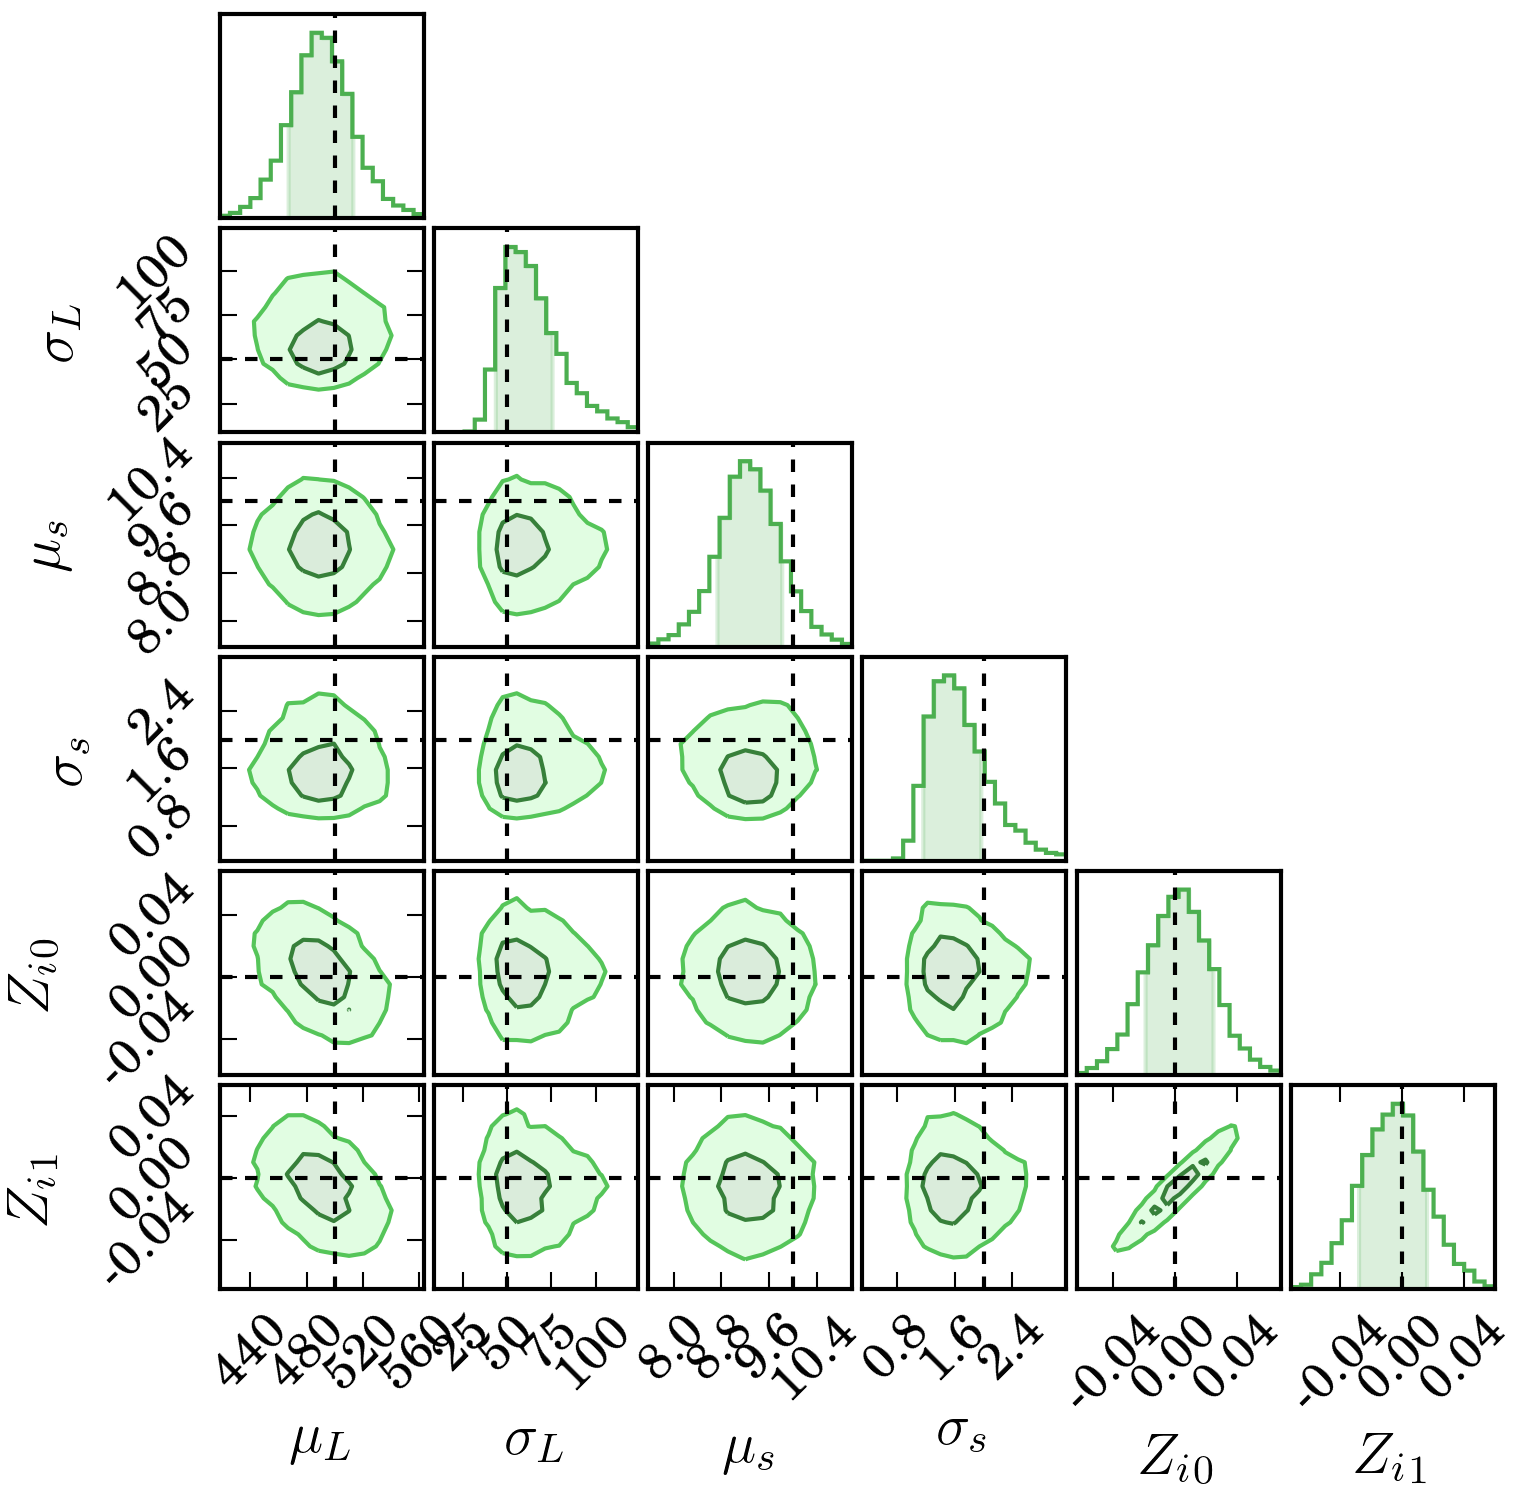
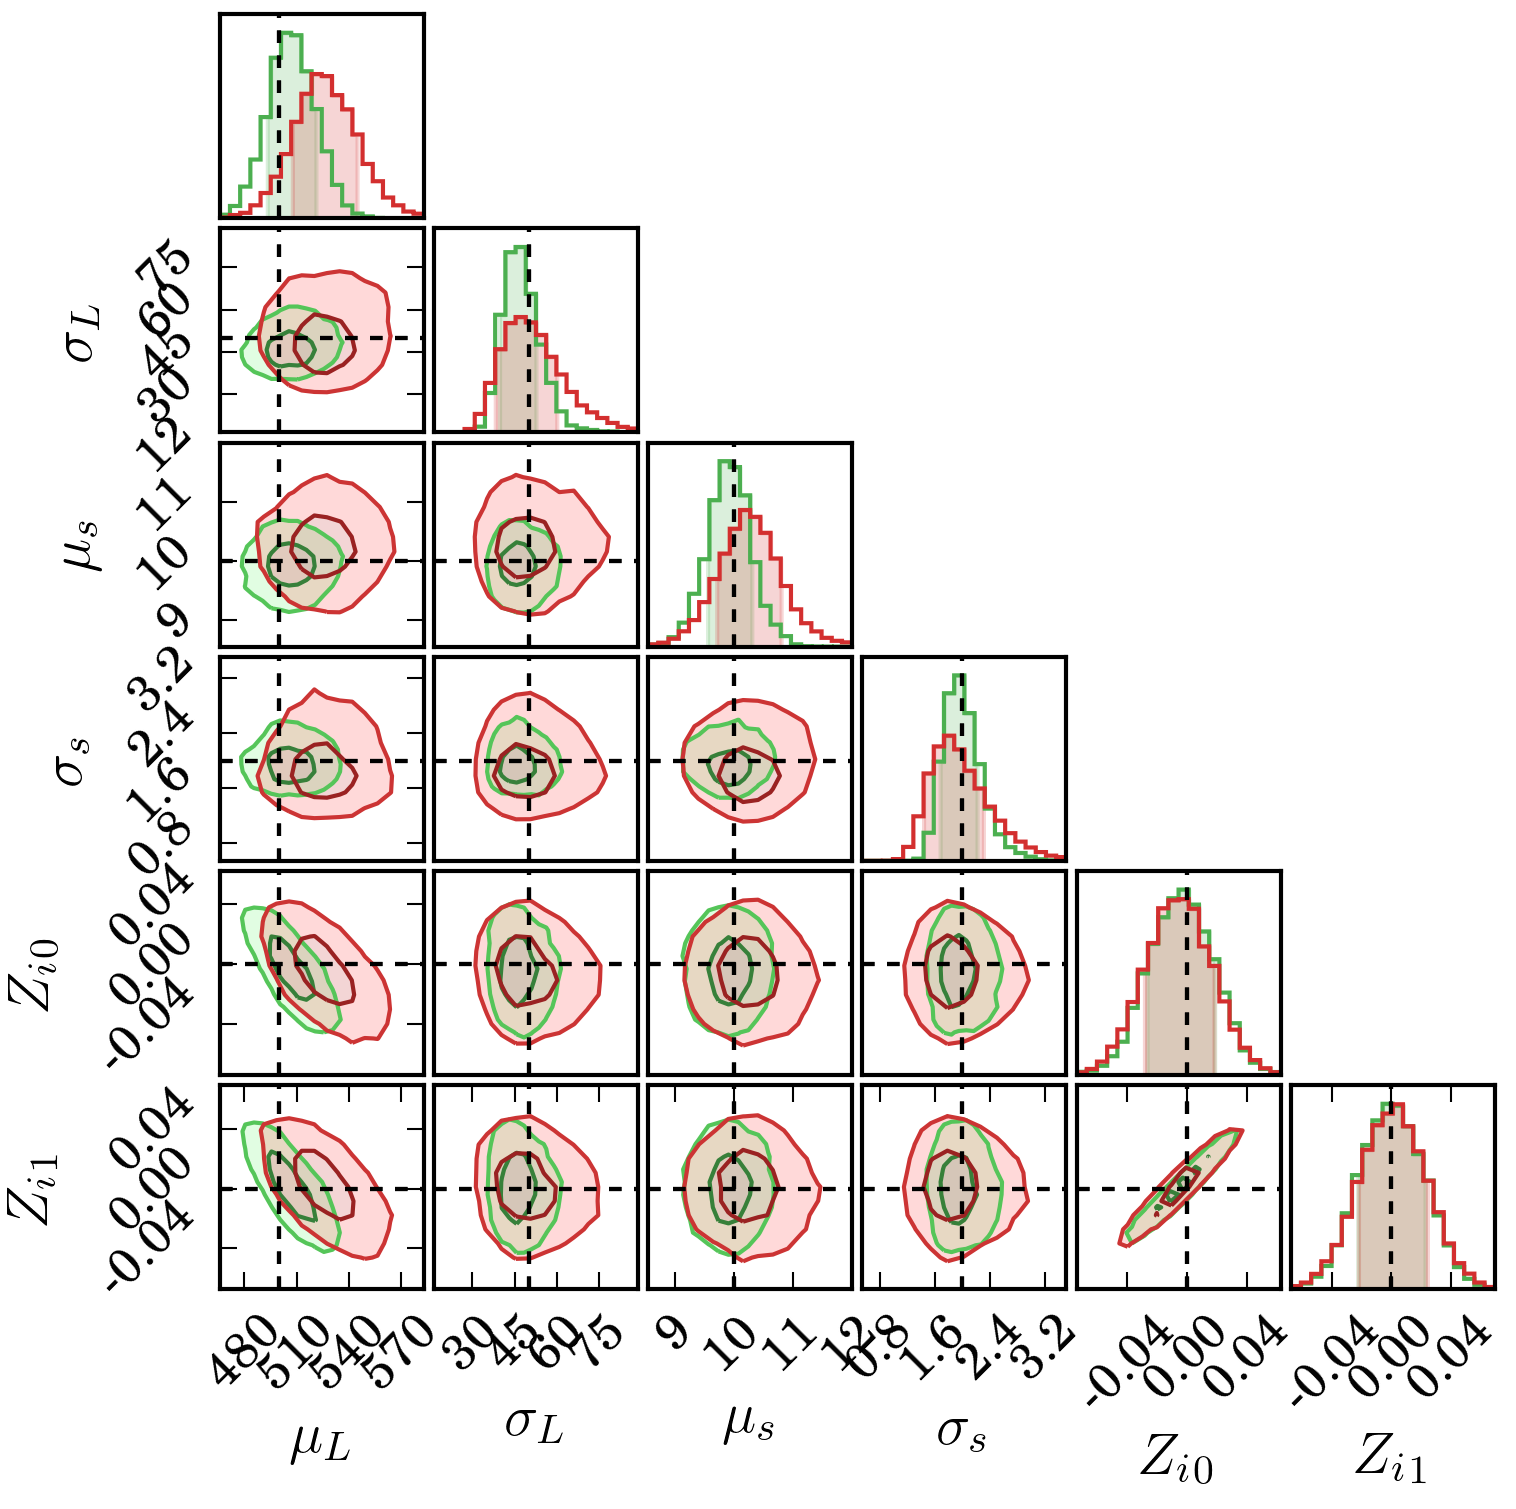
Updates and tears

Changed region(s): [[0.031, 0.0, 0.9921, 0.9967], [0.31, 0.9344, 0.372, 0.9655], [0.6201, 0.9344, 0.6511, 0.9655]]

diff --git a/dessn/proofs/efficiency_8/efficiency_model_8.py b/dessn/proofs/efficiency_8/efficiency_model_8.py
@@ -56,7 +56,7 @@ class PeakLuminosity(ParameterLatent):
 
 class PeakTime(ParameterLatent):
     def __init__(self, n, ts):
-        super().__init__("t", r"$t_0$", n, group="Peak Time")
+        super().__init__("t", r"$t0$", n, group="Peak Time")
         self.ts = ts
 
     def get_suggestion_requirements(self):
@@ -221,13 +221,12 @@ class ToFlux(EdgeTransformation):
 
 class ToLuminosity(EdgeTransformation):
     def __init__(self):
-        # super().__init__("lum", ["L", "t", "t_o", "s"])
-        super().__init__("lum", ["L", "t_o", "s"])
+        super().__init__("lum", ["L", "t", "t_o", "s"])
 
     def get_transformation(self, data):
         l0 = data["L"][:, None]
         s = data["s"][:, None]
-        diff = 100 - data["t_o"]
+        diff = data["t"][:, None] - data["t_o"]
         vals = np.exp(-(diff * diff) / (2 * s * s))
         return {"lum": l0 * vals}
 
@@ -280,7 +279,7 @@ class EfficiencyModelUncorrected(Model):
 
         # Latent Parameters
         self.add(PeakLuminosity(observed_redshift.size, observed_zero_points, observed_redshift, actual_lum))
-        # self.add(PeakTime(observed_redshift.size, actual_t0))
+        self.add(PeakTime(observed_redshift.size, actual_t0))
         self.add(Stretch(observed_redshift.size, actual_stretch))
 
         # Transformed Parameters
@@ -308,7 +307,7 @@ class EfficiencyModelUncorrected(Model):
         self.finalise()
 
 
-def get_data(seed=5, n=10):
+def get_data(seed=5, n=30):
     np.random.seed(seed=seed)
 
     # Experimental Configuration
@@ -336,7 +335,7 @@ def get_data(seed=5, n=10):
     ss = []
     t0s = []
     for i in range(n):
-        t0 = 100  # np.random.randint(low=1, high=300)
+        t0 = np.random.randint(low=1, high=300)
         t = np.arange(-t_sep * (num_obs // 2), t_sep * (num_obs // 2), t_sep)
         l0 = np.random.normal(loc=lmu, scale=lsigma)
         s = np.random.normal(loc=smu, scale=ssigma)
@@ -406,30 +405,25 @@ if __name__ == "__main__":
         lmu, lsigma, smu, ssigma, zeros, calibration, threshold, ls, ss, t0s, zs, ts, cs, mask, num_obs = get_data()
         theta = [lmu, lsigma, smu, ssigma] + zeros.tolist()
         # theta = [lmu, lsigma] + zeros.tolist()
-        theta2 = theta + ls.tolist() + ss.tolist()# + t0s.tolist()
+        theta2 = theta + ls.tolist() + t0s.tolist() + ss.tolist()
 
-        kwargs = {"num_steps": 5000, "num_burn": 30000, "save_interval": 60,
-                  "plot_covariance": True}  #, "unify_latent": True   # , "callback": v.callback
+        kwargs = {"num_steps": 10000, "num_burn": 200000, "save_interval": 60,
+                  "plot_covariance": True}
         sampler = BatchMetroploisHastings(num_walkers=w, kwargs=kwargs, temp_dir=t % i, num_cores=4)
 
         model_good = EfficiencyModelUncorrected(cs, zs, ts, calibration, zeros, ls, ss, t0s, name="Good%d" % i)
-        print(model_good._theta_names)
-        print("CORRECT ", model_good.get_log_posterior(theta2))
-        theta3 = [a * 1.0 for a in theta2]
-        theta3[0] *= 1.1
-        print("BAD ", model_good.get_log_posterior(theta3))
-        model_good.fit(sampler, chain_consumer=c, include_latent=True)
+        model_good.fit(sampler, chain_consumer=c)
 
-        # model_un = EfficiencyModelUncorrected(cs[mask], zs[mask], ts[mask], calibration,
-        #                                       zeros, name="Uncorrected%d" % i)
-        # model_un.fit(sampler, chain_consumer=c)
+        model_un = EfficiencyModelUncorrected(cs[mask], zs[mask], ts[mask], calibration,
+                                              zeros, ls[mask], ss[mask], t0s[mask], name="Uncorrected%d" % i)
+        model_un.fit(sampler, chain_consumer=c)
 
     c.configure_bar(shade=True)
     c.configure_general(bins=1.0, colours=colours)
     c.configure_contour(sigmas=[0, 0.01, 1, 2], contourf=True, contourf_alpha=0.2)
     c.plot(filename=plot_file, truth=theta, figsize=(5, 5), legend=False, parameters=6)
     for i in range(len(c.chains)):
-        c.plot_walks(filename=walk_file % c.names[i], chain=i, truth=theta2)
+        c.plot_walks(filename=walk_file % c.names[i], chain=i, truth=theta)
         # c.divide_chain(i, w).configure_general(rainbow=True) \
         #     .plot(figsize=(5, 5), filename=plot_file.replace(".png", "_%s.png" % c.names[i]),
         #           truth=theta)

diff --git a/dessn/proofs/efficiency_8/__init__.py b/dessn/proofs/efficiency_8/__init__.py
@@ -58,12 +58,34 @@ cuts are applied, giving the following distribution:
     :width:     80%
     :align:     center
 
+
+Before continuing further, we should note that the model we have constructed
+is highly pathological. Not only will both our zero point values be highly correlated with
+each other, but all of our luminosity values will be highly correlated, and our peak
+luminosity will be anti-correlated with stretch. These pathological models are discussed
+in [1]_, demonstrating the very slow convergence time for traditional MCMC fitting
+algorithms like MH. However, as fast HMC methods are not currently available using
+Python (unless one forgoes external libraries and uses Theano), we have simply decreased
+our data size and increased burn in such that we are still able to utilise MH. Future models
+will probably be attempted in STAN.
+
+
+.. figure::     ../dessn/proofs/efficiency_8/output/covariance.png
+    :width:     100%
+    :align:     center
+
+    The covariance matrix from the burn in on the left, with the associated
+    correlation matrix on the right. The parameters, from top left to bottom right,
+    are :math:`\mu_L,\, \sigma_L, \, \mu_s,\, \sigma_s, \, Z_0,\, Z_1, \lbrace{L}\rbrace,\,
+    \lbrace t \rbrace,\, \lbrace s \rbrace`. The highly correlated nature of the the
+    variables means that a huge amount of time needs to be spent on the burn in phase.
+
 Now we also need to determine the appropriate weights.
 
 .. math::
     W &= P(S|\mu_L, \sigma_L, \mu_s, \sigma_s, Z)  \\
     &= \idotsint dL_0 \, dt \, ds \, dz\, d\mathbf{c_i} P(S, \mathbf{c_i}, L_0, t, s, z|\mu_L, \sigma_L, \mu_s, \sigma_s, Z) \\
-    &= \idotsint dL_0 \, dt \, ds \, dz\, d\mathbf{c_i} P(S|\mathbf{c_i}) P(\mathbf{c_i}|L_0, t, \hat{t}, z, Z) P(L_0|\mu_L,\sigma_L) P(s|\mu_s,\sigma_s)
+    &= \idotsint dL_0 \, dt \, ds \, dz\, d\mathbf{c_i} P(S|\mathbf{c_i}) P(\mathbf{c_i}|L_0, t, \hat{t}, z, Z) P(L_0|\mu_L,\sigma_L) P(s|\mu_s,\sigma_s) \\
     &= \int dL_0 \int dt \int ds \int dz\int d\mathbf{c_i} P(S|\mathbf{c_i}) P(\mathbf{c_i}|L_0, t, \hat{t}, z, Z) P(L_0|\mu_L,\sigma_L) P(s|\mu_s,\sigma_s)
 
 Note in here that we insert :math:`\hat{t}` inside the equation without an integral. This is because
@@ -72,6 +94,7 @@ as an observable in the first section as it is given data in the same way the ex
 is given data. As the weights represent the efficiency over all possible data, given the same
 experiment is performed, we use the same :math:`t` values without an integral.
 
-
+.. [1] Betancourt, M.J. and Girolami, M. (2013), "Hamiltonian Monte Carlo for Hierarchical Models",
+    http://adsabs.harvard.edu/abs/2013arXiv1312.0906B
 
 """
